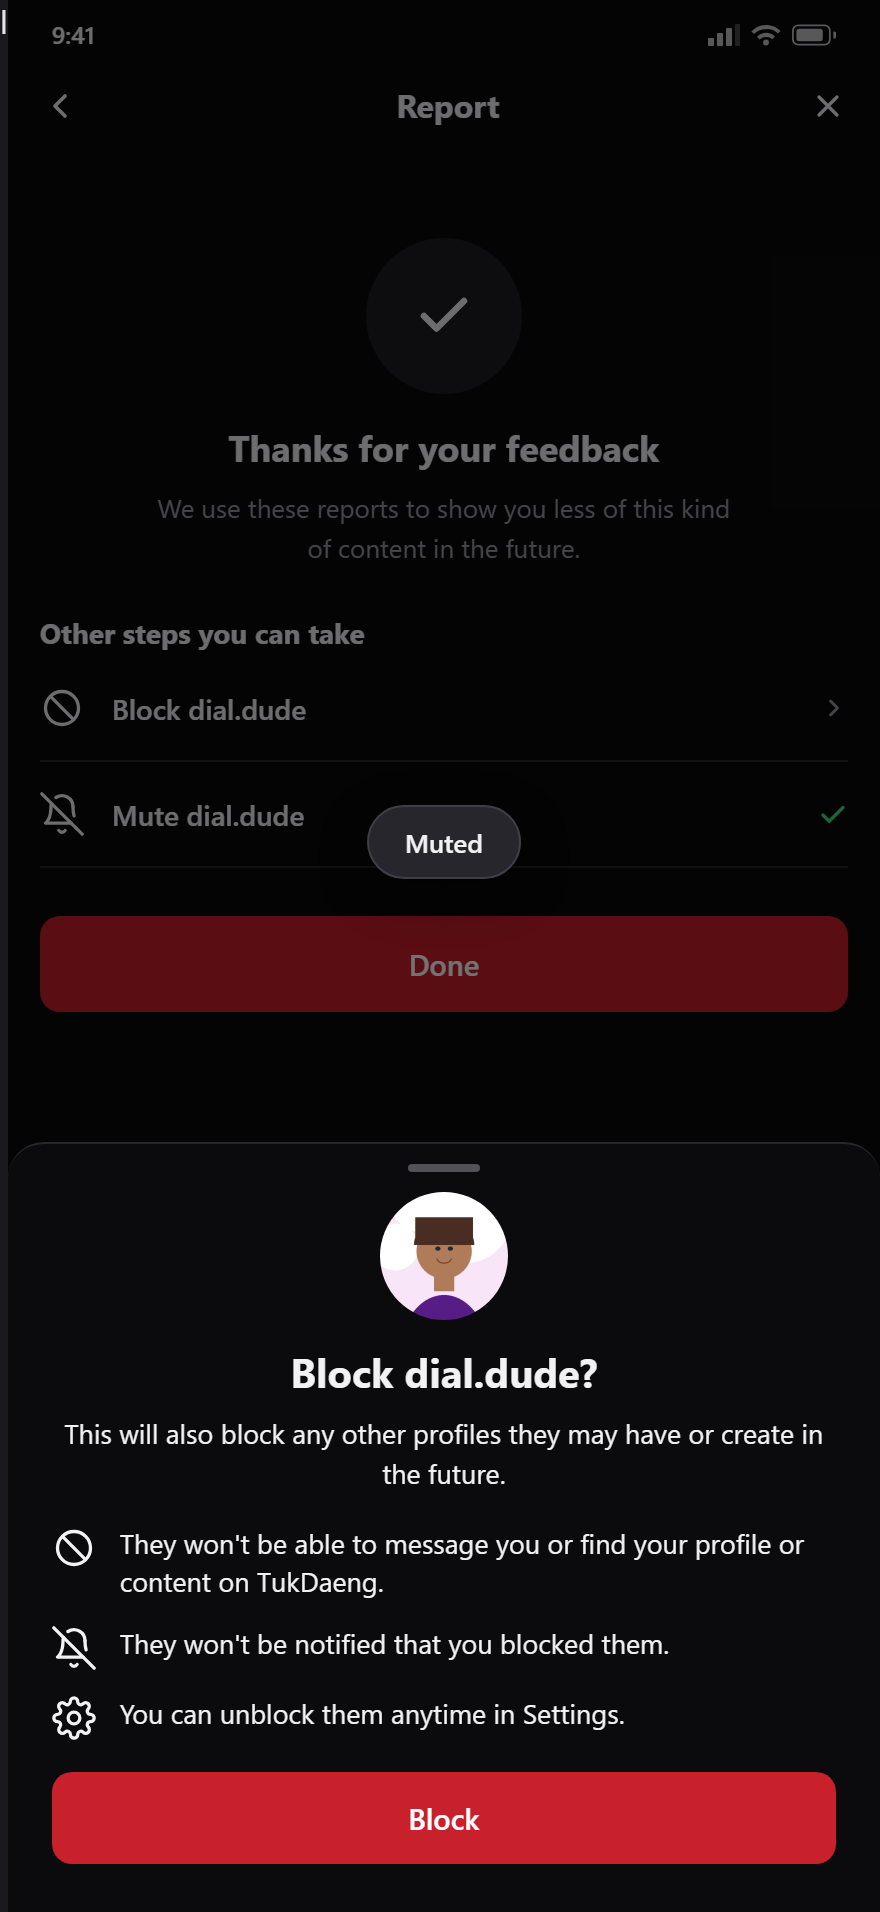
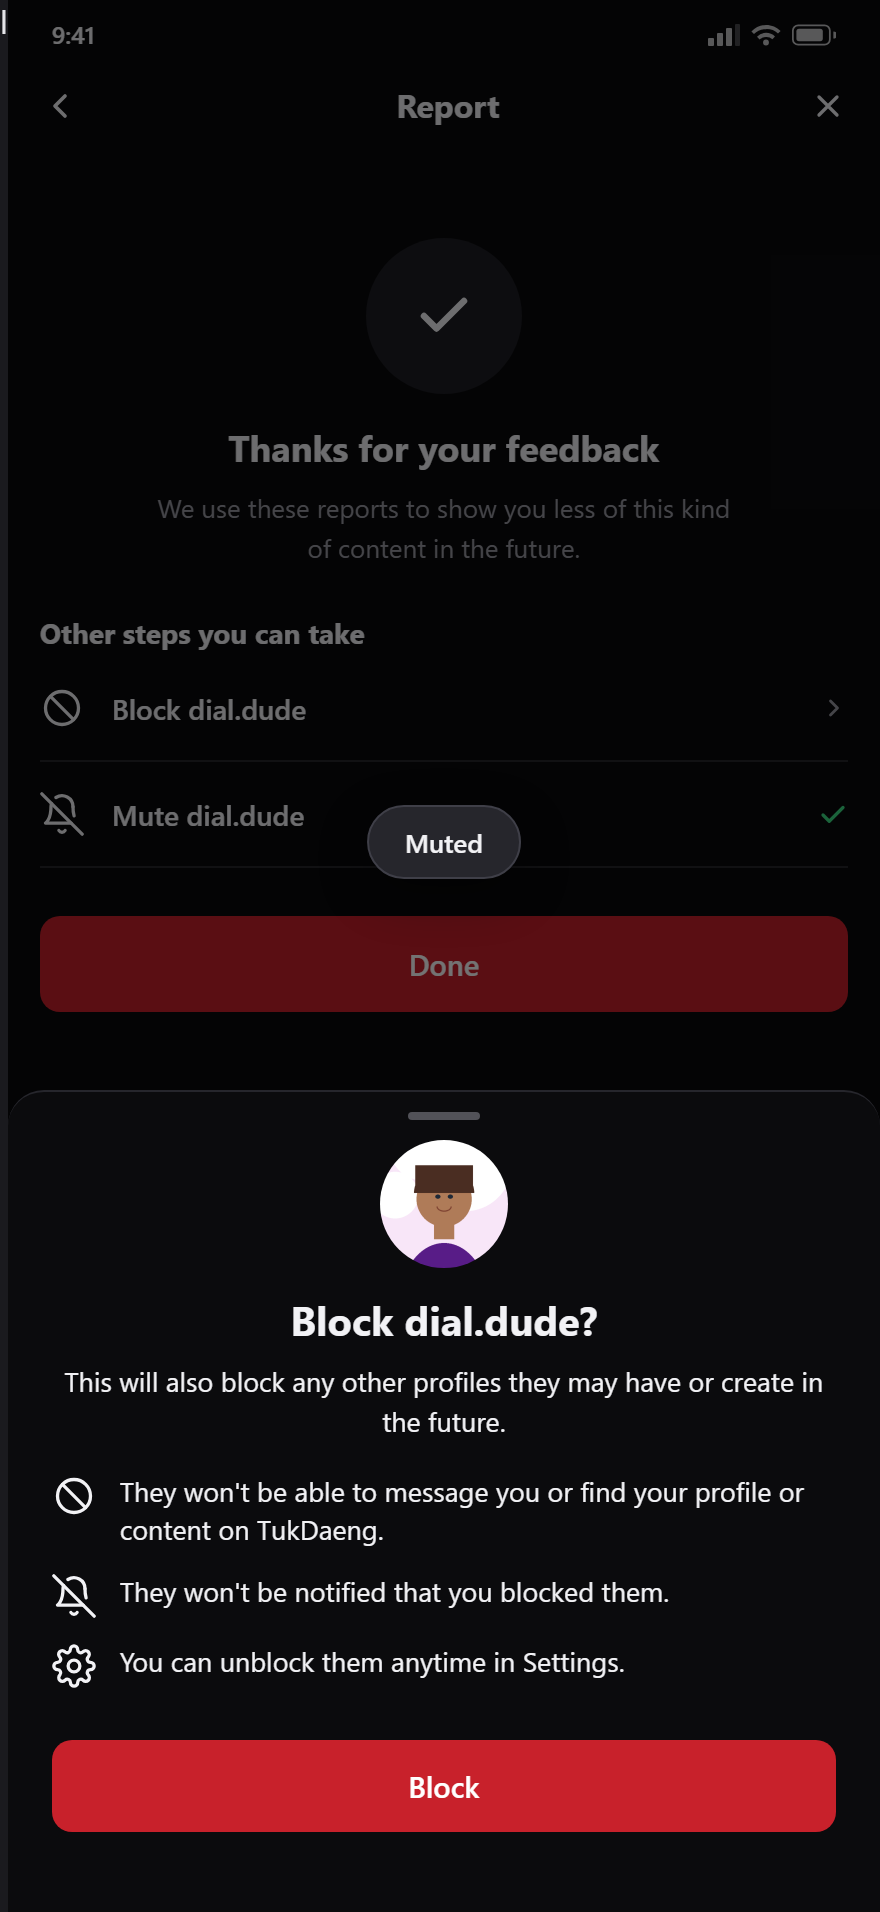
feat(PROFILE-005): block sheet — Block only + IG spacing
Per review: dropped "Block and report" from both sheet variants
(report flow keeps its own entry via the Report row) and added
breathing room above/below the Block button to match IG.

Generated with [Devin](https://devin.ai)

Changed region(s): [[0.0614, 0.5554, 0.9511, 0.9874]]

diff --git a/Prototypes/fo-flow/index.html b/Prototypes/fo-flow/index.html
@@ -1028,7 +1028,7 @@ l<!DOCTYPE html>
   /* ============ PROFILE-005 — IG block confirm sheet / About this account / restrict hint ============ */
   .blk-body {
     display: flex; flex-direction: column; align-items: center;
-    padding: 6px 22px 24px; text-align: center;
+    padding: 6px 22px 40px; text-align: center;
   }
   .blk-av { width: 64px; height: 64px; border-radius: 50%; object-fit: cover; }
   .blk-q { font-size: 20px; font-weight: 700; color: var(--text); margin-top: 12px; }
@@ -1039,13 +1039,9 @@ l<!DOCTYPE html>
   }
   .blk-i svg { flex-shrink: 0; margin-top: 1px; }
   .blk-go {
-    width: 100%; border: none; border-radius: 10px; padding: 13px; margin-top: 4px;
+    width: 100%; border: none; border-radius: 10px; padding: 13px; margin-top: 14px;
     background: var(--red); color: #fff; font-family: var(--font-main);
     font-size: 14.5px; font-weight: 600; cursor: pointer;
-  }
-  .blk-rp {
-    width: 100%; border: none; background: none; padding: 14px 12px 0;
-    color: var(--text); font-family: var(--font-main); font-size: 14px; font-weight: 600; cursor: pointer;
   }
   /* about page */
   .ab-hero { display: flex; flex-direction: column; align-items: center; text-align: center; padding: 20px 26px 6px; }
@@ -6580,7 +6576,6 @@ function blkSheetHTML(uname, fromReport) {
       <div class="blk-i">${I.bellOff(22)}<span>They won't be notified that you blocked${fromReport ? "" : " or reported"} them.</span></div>
       ${fromReport ? `<div class="blk-i">${I.gear(22)}<span>You can unblock them anytime in Settings.</span></div>` : ""}
       <button class="blk-go" data-u="${esc(uname)}">Block</button>
-      ${fromReport ? "" : `<button class="blk-rp" data-u="${esc(uname)}">Block and report</button>`}
     </div>`;
 }
 /* IG unblock confirm — center dialog like Mute (not a sheet) */
@@ -8468,21 +8463,15 @@ document.getElementById("stage").addEventListener("click", e => {
     pushSub(scr, "about:" + pfShAbout.dataset.u);
     return;
   }
-  const blkGo = e.target.closest(".blk-go, .blk-rp");
+  const blkGo = e.target.closest(".blk-go");
   if (blkGo) {
     const scr = blkGo.closest(".screen");
     const u = blkGo.dataset.u;
-    const toReport = blkGo.classList.contains("blk-rp");
-    if (!toReport) scr.classList.remove("pm-open"); /* report: keep the sheet up — the picker slides over it */
+    scr.classList.remove("pm-open");
     pfSetBlocked(scr, u, true);
     const subTop = (scr._subStack || []).at(-1) || "";
     if (subTop === "profile:" + u || subTop === "report:done:" + u) renderSub(scr);
     scrToast(scr, "Blocking"); /* IG flashes this transient toast */
-    if (toReport) {
-      scr.dataset.rpUser = u;
-      pmDropCovered(scr);
-      scr._subSwap = true; rpPush(scr, "report:pick:" + u); scr._subSwap = false; /* instant replace, no slide-up */
-    }
     return;
   }
   /* PROFILE-005 — "Thanks for your feedback" steps: real actions only.
